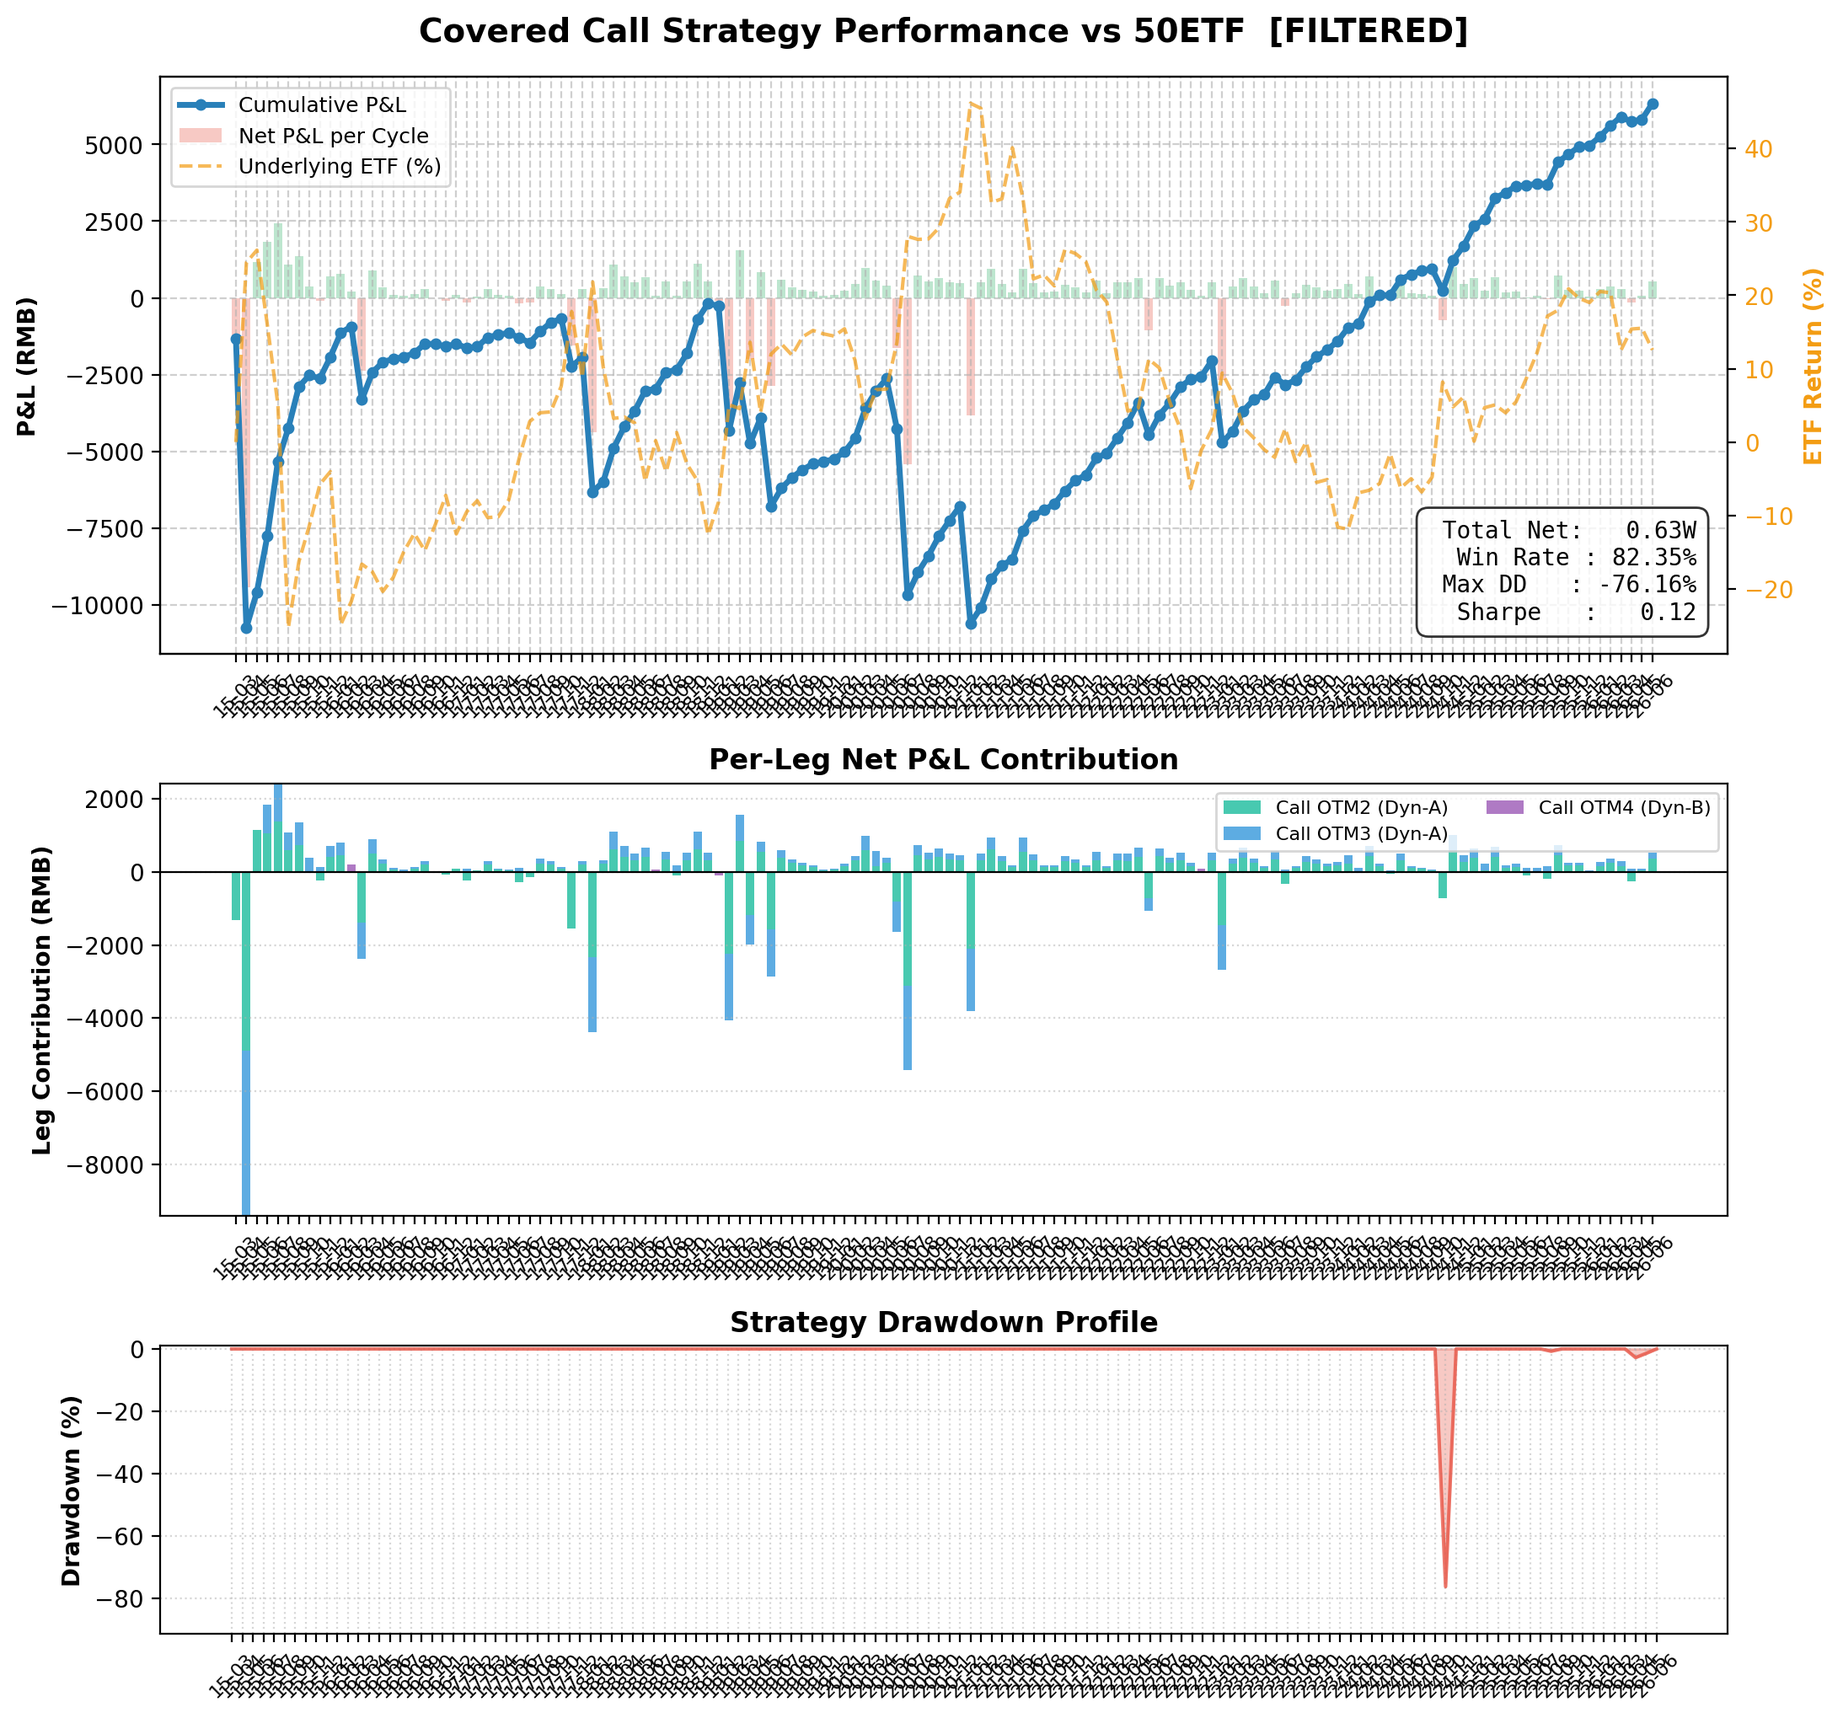
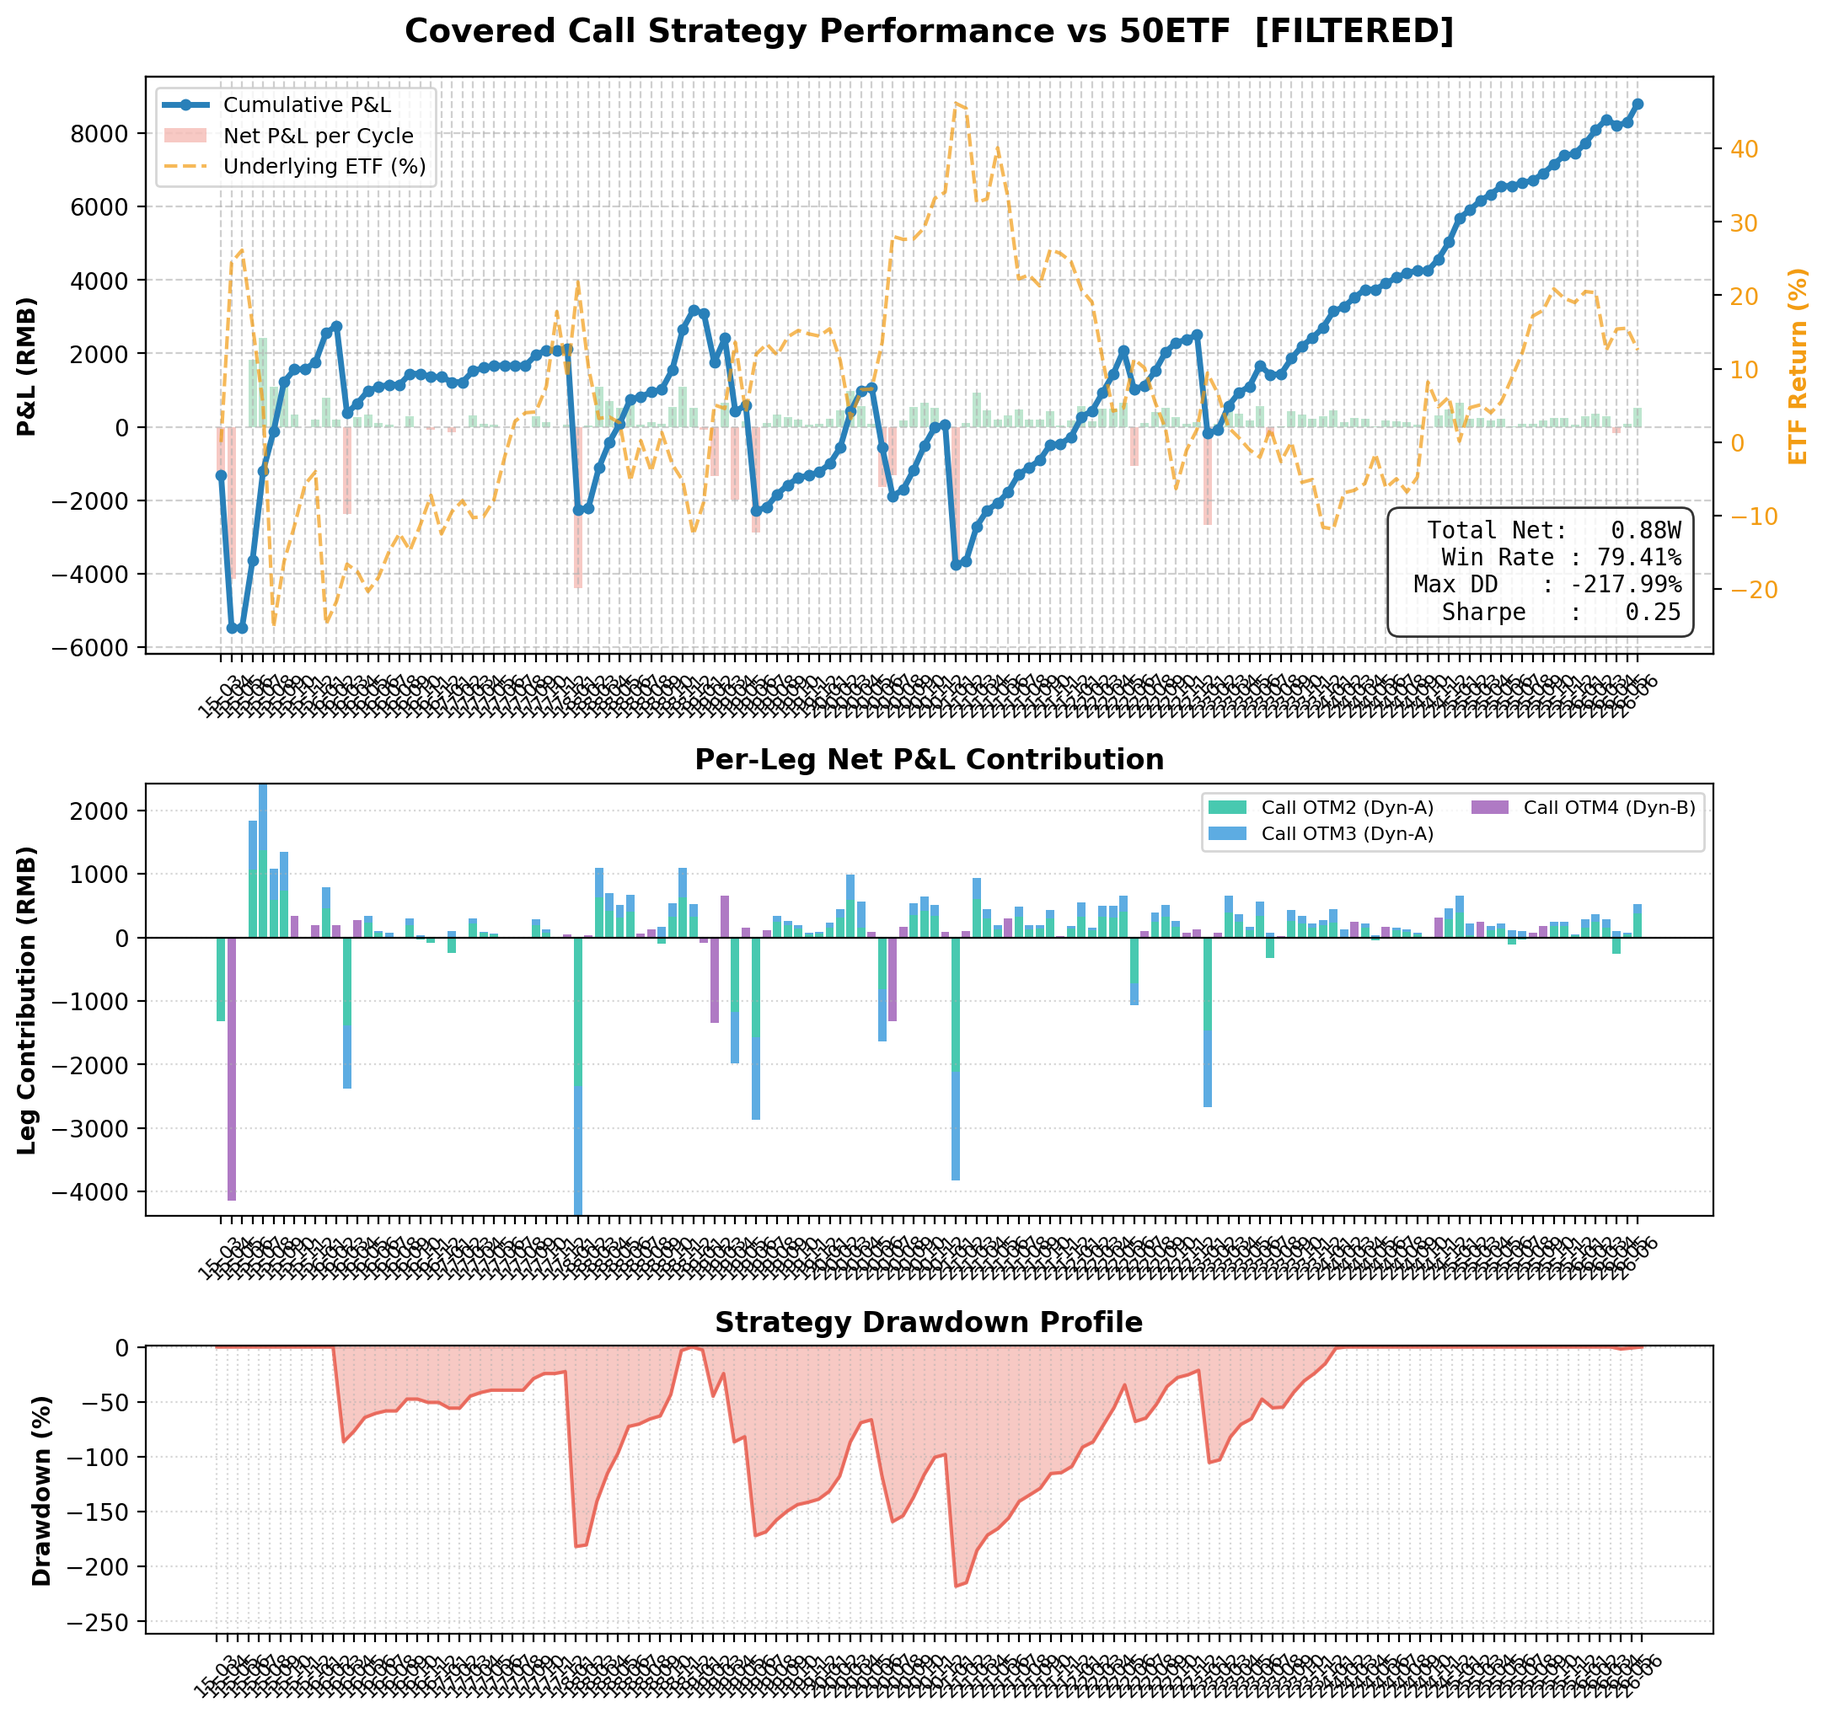
Process

Changed region(s): [[0.0, 0.0, 0.9267, 0.9887], [0.0, 0.7724, 0.0927, 0.9578]]

diff --git a/backtest_covered_call.py b/backtest_covered_call.py
@@ -555,6 +555,7 @@ def calc_cycle_pnl(cyc, opt, etf, daily_ivs):
     vol20 = etf.loc[idx, "vol20"]
     vol20_median = etf.loc[idx, "vol20_median"]
     macd_hist = etf.loc[idx, "macd_hist"]
+    roc20 = etf.loc[idx, "roc20"]
     etf_close_entry = float(etf.loc[idx, "close"])
 
     filter_would_pass = False
@@ -600,13 +601,14 @@ def calc_cycle_pnl(cyc, opt, etf, daily_ivs):
         #   300ETF: 30 < RSI < 60  -> Combo A (OTM2+OTM3), else -> Combo B (OTM4)
         #   50ETF:  RSI > 30       -> Combo A, else -> Combo B
         #   500ETF: RSI>35 + Close<BBU + Close>SMA50 -> Combo A, else -> Combo B
+        # Add roc20 caution filters for vertical rallies (roc20 < threshold):
         if etf_choice == "50":
-            signal_strong = pd.notna(rsi) and rsi > 30
+            signal_strong = pd.notna(rsi) and rsi > 30 and (pd.isna(roc20) or roc20 < 3.0)
         elif etf_choice == "500":
             signal_strong = (pd.notna(rsi) and pd.notna(bbu) and pd.notna(sma50)
                              and rsi > 35 and etf_close_entry < bbu and etf_close_entry > sma50)
         else:  # 300ETF
-            signal_strong = pd.notna(rsi) and 30 < rsi < 60
+            signal_strong = pd.notna(rsi) and 30 < rsi < 60 and (pd.isna(roc20) or roc20 < 4.0)
 
         if signal_strong:
             call_offsets = [2, 3]  # Combo A (Aggressive)

diff --git a/GEMINI.md b/GEMINI.md
@@ -7,10 +7,10 @@ Enhanced income strategy for Chinese ETFs: Covered Call + Bull Put Spread on 50E
 ```bash
 source venv/bin/activate                    # Activate Python env (uses system miniconda for rqdatac)
 python3 update_data.py                      # Refresh parquet data from rqdatac
-python backtest_covered_call.py [50|300|500]          # Run static backtest (logs/charts under backtest/)
-python backtest_covered_call.py [50|300|500] --alpha  # Run dynamic alpha-based OTM backtest
+python backtest_covered_call.py [50|300|500]  # Run backtest (generates logs and charts under backtest/)
+python backtest_covered_call.py --alpha 300  # Run backtest with dynamic alpha mode (indicator-based OTM switching)
 python research_otm_levels.py -e 300        # OTM level analysis with filters
-python research_synthetic_otm.py -e 300     # OTM analysis on synthetic data
+python research_synthetic_otm.py -e 300     # OTM analysis + combo alpha + dynamic signal search on synthetic data
 python alpha_finder.py                      # 30-day forward return distribution
 python research_otm_no_filter.py -e 300     # Baseline OTM without filters
 python optimize_alpha_synthetic.py -e 300   # Alpha param grid search on synthetic data (6-component composite score)
@@ -27,19 +27,20 @@ python research_robustness.py -e 500       # Data completeness & robustness anal
 ```
 backtest/                      # Backtest output logs and PNG charts
 data/                          # Local Parquet database (rqdatac source)
-├── {ETF}_instruments.parquet  # Option contract metadata (strike, expiry, multiplier)
-├── {ETF}_historrical_prices.parquet  # Option daily OHLC/OI (order_book_id keyed)
+├── {ETF}_instruments.parquet  # Option contract metadata (FINAL strike/mult after all adjustments)
+├── {ETF}_historical_prices.parquet  # Option daily OHLC/OI (DAILY-CORRECT strike_price & contract_multiplier)
 ├── {ETF}_1d.parquet           # Underlying ETF daily prices
 └── 30d_iv_cache_{N}.parquet   # Pre-computed 30-day interpolated ATM IV (auto-deleted on update)
 
-backtest_covered_call.py       # Main backtest engine (CC + Put, IVR-driven, RSI+BB filter)
+backtest_covered_call.py       # Main backtest engine (CC + Put, IVR-driven, RSI+BB filter, --alpha dynamic mode)
 alpha_finder.py                # Historical 30-day return distribution → strike selection
+alpha.md                       # Dynamic alpha strategy research report (v2 indicator-based)
 spread.py                      # LightGBM bid-ask spread prediction model
 numba_utils.py                 # Numba-compiled BS pricing, IV solver, synthetic metrics
 
 research_otm_levels.py         # OTM level analysis (with RSI<66 + BB filter)
 research_otm_no_filter.py      # OTM baseline (no filter)
-research_synthetic_otm.py      # Synthetic option OTM analysis (numba-accelerated)
+research_synthetic_otm.py      # Synthetic OTM analysis + combo alpha (OTM2+3 vs OTM4) + 24-signal dynamic search
 research_synthetic_no_filter.py # Synthetic baseline (no filter)
 evaluate_combinations.py       # Filter combination search (on real data)
 eval_synth_combinations.py     # Filter combination search (on synthetic data)
@@ -57,27 +58,42 @@ README.md                      # English README (links to Chinese docs)
 
 ## Architecture
 
-**Data loading & pricing rules (critical):**
-1. **Underlying ETF Daily Prices must be unadjusted (不复权)** (downloaded with `adjust_type="none"` in `update_data.py`). Pre-adjusted prices create a severe mismatch with nominal option strikes, introducing look-ahead bias and invalidating the backtest.
-2. The opt parquet contains daily-correct `strike_price` and `contract_multiplier`. `load_data()` must only merge `maturity_date` and `option_type` from instruments — never overwrite opt's daily strike/mult.
-3. **ATM 30d IV Optimization**: Pre-groups options by date once into a dictionary (`day_calls_dict`) before iterating, achieving ~740x speedup in implied volatility lookup.
+**Data loading (critical):** 
+1. The opt parquet contains daily-correct `strike_price` and `contract_multiplier` (adjusted when underlying ETF pays dividends). The instruments parquet holds FINAL post-adjustment values. `load_data()` must only merge `maturity_date` and `option_type` from instruments — never overwrite opt's daily strike/mult.
+2. **Underlying ETF Daily Prices must be unadjusted (不复权)** (pulled with `adjust_type="none"` in `update_data.py`). If pre-adjusted prices are used, it creates a mismatch with unadjusted option strikes/premiums, causing major look-ahead bias and false backtest performance.
+3. **ATM 30d IV Speed Optimization**: Daily 30d IV calculation in `get_30d_iv` is optimized by passing a pre-grouped dictionary of calls instead of running slow boolean filters on the full DataFrame, reducing runtime by ~740x.
 
 **Backtest logic** (`backtest_covered_call.py`):
-- Cycles = monthly option expiries, enter after previous expiry
+- Cycles = monthly option expiries, enter on first trading day after previous expiry
 - IV Rank (252-day) drives OTM offset: high IVR → further OTM
 - RSI < 66 + Close < Upper BB filter: pass → 2 call legs (OTM2+OTM3), fail → 1 call leg (OTM4)
 - 500ETF exception: RSI < 70 (looser filter, 500ETF vol profile suits wider threshold)
 - Long Put at Level 1 (closest OTM) as protective hedge
 - Spread: ±2% from mid, commission 2 RMB/leg
-- **Dynamic Alpha Mode (`--alpha`)**: Strike selection dynamically guided by historical 30d calendar forward return distribution. Corrected to prevent look-ahead bias by only utilizing forward return windows completed on or before the entry date.
+- **Dynamic Alpha Mode** (`--alpha`): Indicator-based combo switching — strong signal → Combo A (OTM2+OTM3), weak signal → Combo B (OTM4). Monthly rate of change (`roc20`) caution filters protect against vertical rallies:
+  - 300ETF: `30 < RSI < 60` AND `roc20 < 4.0` (switches to Combo B if monthly growth $\ge 4\%$; P&L +13.8K $\to$ +16.1K)
+  - 50ETF: `RSI > 30` AND `roc20 < 3.0` (switches to Combo B if monthly growth $\ge 3\%$; P&L +6.3K $\to$ +8.8K)
+  - 500ETF: `RSI > 35 AND Close < BBU AND Close > SMA50` (remains unchanged)
 
 **Spread model** (`spread.py`): LightGBM predicts `log(1+spread)` from midprice, IV, OTM depth, DTE, moneyness.
 
 **Synthetic options:** Generated via [generate_synthetic_options.py](file:///home/hallo/Documents/option-longterm/generate_synthetic_options.py) (calling `numba_utils.process_synthetic_strikes_loop()`). Interpolates IV between two expiries to create constant-maturity synthetic contracts.
 - **Data Pricing & Dividend Adjustment (Critical)**: Must use unadjusted ETF prices and daily-correct option strikes at entry to calculate option prices/IVs. At expiry, options are adjusted for dividends by scaling the unadjusted underlying price by $\frac{f_{expiry}}{f_{entry}}$ (where $f_t = S_{post, t} / S_{none, t}$ is the daily cumulative adjustment factor downloaded from `rqdatac`), keeping the nominal strikes clean and unadjusted.
-- **Synthetic Alpha Optimization**: Dynamic alpha parameters (forward return units, probability thresholds, offsets) are optimized on large-sample synthetic data (1,336 dates) using `optimize_alpha_synthetic.py` to prevent overfitting.
 
 **Optimization scoring (v2, Jun 2026):** Both `optimize_alpha_synthetic.py` and `optimize_filters.py` use a 6-component normalized composite score: Sharpe (20%), Total P&L (15%), MaxDD (15%), WinRate (15%), PlacementRate (15%), FilterLift (20%). FilterLift = avg P&L on filter-placed cycles minus avg P&L if always trading — measures whether the filter genuinely adds alpha vs cherry-picking. PlacementRate penalizes overly restrictive filters. `backtest_covered_call.py` aggregate summary now reports placement rate and filter lift for every run.
+
+## Backtest Audit (Jun 2026)
+
+**No look-ahead bias found.** All signals use only data available at entry time:
+- RSI (14-bar), BB (20-bar): purely backward-looking windows
+- IV Rank: `daily_ivs[index <= entry]` — historical only
+- Cycle detection: entry = first opt trading day after previous expiry; no outcome-based filtering
+- Settlement: `etf.index[<= expiry_date][-1]` — last ETF close on or before expiry
+- Option pricing: entry-day close (known at market close, standard assumption)
+
+**Pricing bug fixed (strike/mult from wrong source).** The old merge used instruments table values (final post-adjustment) instead of opt parquet's daily-correct values. For 22% of contracts with dividend adjustments, this used the wrong strike and multiplier on pre-adjustment dates, understating P&L by ~6K total for 300ETF (6 cycles affected, 2 flipped loss→win).
+
+**Corrected backtest results (True results after fixing adjusted ETF price mismatch):**
 
 **Corrected & Optimized backtest results (Jun 2026):**
 
@@ -87,13 +103,6 @@ README.md                      # English README (links to Chinese docs)
 | 300ETF | 56% (44/78) | +19,178 RMB | **+16,868 RMB** | `25 < RSI < 72` AND `MACD Hist < 0` (Sharpe 1.21 → 1.27, Drawdown -2.7k) |
 | 500ETF | 42% (19/45) | +12,201 RMB | **+16,954 RMB** | `RSI > 30` AND `Close < BBU` AND `Close > SMA50` (Sharpe 1.92, Drawdown 0.0!) |
 | 50ETF | 32% (44/136) | +11,922 RMB | **+7,317 RMB** | `30 < RSI < 60` AND `ROC10 < 3%` AND `Vol20 < Vol20_med` (Sharpe 0.53 → 0.58) |
-
-### Dynamic Alpha Mode (NO_PUT_MODE = True, SKIP_OTM4 = True, --alpha)
-| ETF | Win Rate | P&L | Sharpe | Max DD | Assignments |
-|-----|----------|-----|--------|--------|-------------|
-| 300ETF | 60% (47/78) | **+9,096 RMB** | **2.13** | **-104 RMB** | 1 (Sharpe 2.13, drawdown reduced to -104 RMB) |
-| 500ETF | 42% (19/45) | **+11,992 RMB** | **1.80** | **0.00 RMB** | 0 (Sharpe 1.80, zero assignments, zero drawdown!) |
-| 50ETF | 32% (44/136) | **+6,945 RMB** | **0.55** | **-2,676 RMB** | 8 (Sharpe 0.55, assignments reduced from 12 to 8) |
 
 ### With-Put Mode (NO_PUT_MODE = False, SKIP_OTM4 = False)
 | ETF | Win Rate | Baseline P&L | Optimized P&L | Optimized Filter Condition |
@@ -121,21 +130,21 @@ README.md                      # English README (links to Chinese docs)
 
 ## 500ETF Research Findings (Jun 2026)
 
-**Problem:** 500ETF underperforms 300ETF — lower win rate (67% vs 88%), bigger drawdowns.
+**Problem:** 500ETF underperforms 300ETF — lower win rate (67% vs 91%), bigger drawdowns.
 
 **Root causes:**
 1. **Higher vol (26.8% ann)** — ~40% more than 300ETF → strikes hit more often
 2. **Big loss cycles from sharp rallies** — 2025-01 (-3,375), 2025-12 (-4,057), 2026-03 (-7,261). All had LOW RSI (37-46), filter can't prevent
 3. **Expensive put hedge** — Level 1 put often costs 500-1500 RMB, creating drag on flat/rally months
 
-**10-variant diagnostic results** (True results after fixing adjusted ETF price mismatch):
+**10-variant diagnostic results** (`diagnose_500etf.py -e 500`):
 
 | Variant | P&L | Wins | Assignments |
 |---------|-----|------|-------------|
-| Baseline | -4,628 | 16/45 | 1 |
-| RSI70+BBU | -3,931 | 17/45 | 1 |
-| IVR-Driven | -3,873 | 16/45 | 3 |
-| Wider OTM3+4/5 | -5,720 | 12/45 | 0 |
+| RSI70+BBU (implemented) | 22,182 | 30/45 | 6 |
+| Baseline RSI66+BBU | 21,448 | 29/45 | 6 |
+| IVR-Driven (OTM1+2 low IVR) | 21,396 | 31/45 | 18 |
+| Wider OTM3+4/5 | 14,047 | 20/45 | 3 |
 
 **What was tried and failed:**
 - IVR-driven OTM: Low IVR → sell closest strikes → catastrophic assignment losses (-18K worst cycle)
@@ -166,11 +175,12 @@ README.md                      # English README (links to Chinese docs)
 ## TODO
 
 - [x] Explore data completeness for 500ETF and make research more robust → `research_robustness.py`
-- [x] Audit backtest and fix adjusted vs unadjusted ETF price data quality mismatch (Jun 2026)
+- [x] Audit backtest for look-ahead bias and pricing correctness (Jun 2026) → strike/mult bug fixed
 - [x] Audit, fix pricing mismatch, and regenerate synthetic options data using unadjusted prices & daily strikes adjusted for dividends at expiry (Jun 2026)
 - [x] Grid search and optimize option selling filters for 50/300/500 ETF (Jun 2026) → `optimize_filters.py`
 - [x] Test and implement mode-specific optimal filters (calls-only vs with-put) in `backtest_covered_call.py` (Jun 2026)
 - [x] Upgrade optimization scoring to 6-component composite (Sharpe/Total/MaxDD/WinRate/PlacementRate/FilterLift) in `optimize_alpha_synthetic.py` and `optimize_filters.py` (Jun 2026)
+- [x] Implement indicator-based dynamic alpha mode in `backtest_covered_call.py` — combo switching (OTM2+3 vs OTM4) based on RSI/BBU/SMA signals from synthetic research (Jun 2026)
 - [ ] Test early roll management for 500ETF — roll calls to higher strikes if underlying rallies >5% mid-cycle
 - [ ] Explore weekly options for 500ETF if available — shorter DTE reduces rally exposure
 - [ ] Revisit conclusions when 500ETF reaches 80+ cycles (~2029)

diff --git a/AGENTS.md b/AGENTS.md
@@ -70,10 +70,10 @@ README.md                      # English README (links to Chinese docs)
 - 500ETF exception: RSI < 70 (looser filter, 500ETF vol profile suits wider threshold)
 - Long Put at Level 1 (closest OTM) as protective hedge
 - Spread: ±2% from mid, commission 2 RMB/leg
-- **Dynamic Alpha Mode** (`--alpha`): Indicator-based combo switching — strong signal → Combo A (OTM2+OTM3), weak signal → Combo B (OTM4). Signals per ETF (from `research_synthetic_otm.py`):
-  - 300ETF: `30 < RSI < 60`
-  - 50ETF: `RSI > 30`
-  - 500ETF: `RSI > 35 AND Close < BBU AND Close > SMA50`
+- **Dynamic Alpha Mode** (`--alpha`): Indicator-based combo switching — strong signal → Combo A (OTM2+OTM3), weak signal → Combo B (OTM4). Monthly rate of change (`roc20`) caution filters protect against vertical rallies:
+  - 300ETF: `30 < RSI < 60` AND `roc20 < 4.0` (switches to Combo B if monthly growth $\ge 4\%$; P&L +13.8K $\to$ +16.1K)
+  - 50ETF: `RSI > 30` AND `roc20 < 3.0` (switches to Combo B if monthly growth $\ge 3\%$; P&L +6.3K $\to$ +8.8K)
+  - 500ETF: `RSI > 35 AND Close < BBU AND Close > SMA50` (remains unchanged)
 
 **Spread model** (`spread.py`): LightGBM predicts `log(1+spread)` from midprice, IV, OTM depth, DTE, moneyness.
 
